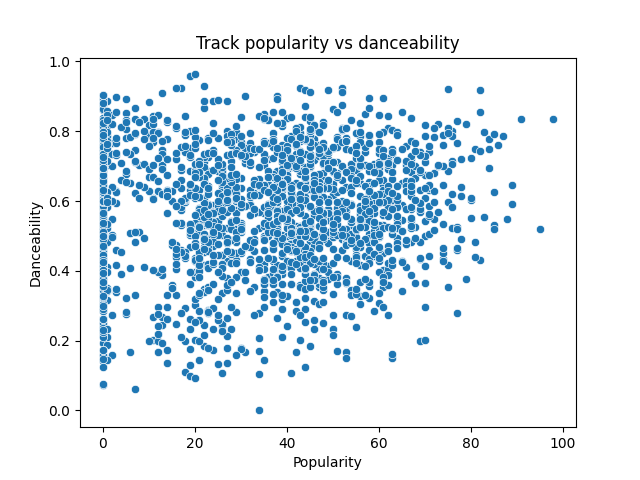
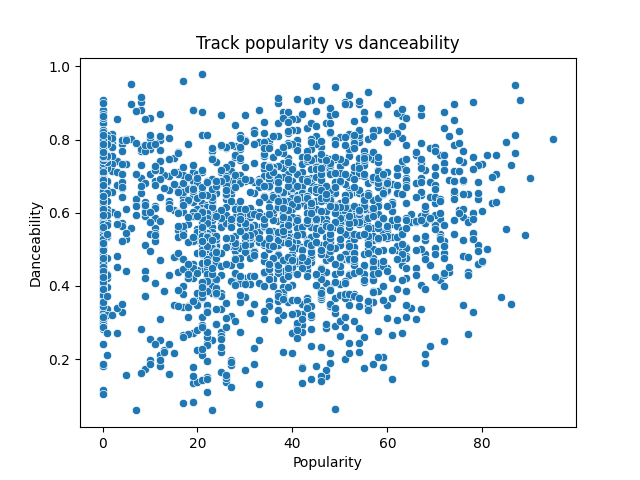
Finish first version of project

diff --git a/analysis.py b/analysis.py
@@ -93,6 +93,7 @@ plt.show()
 
 # # Scatter -> popularity vs energy
 sns.scatterplot(x='popularity',y='energy',data=sample_df)
+plt.title('Track popularity vs energy')
 plt.savefig('output/scatter_popularity_vs_energy.png')
 plt.show()
 

diff --git a/README.md b/README.md
@@ -1,2 +1,50 @@
-# spotify-analysis
+# Spotify Music Trends Analysis
 Spotify Music Trends analysis. Taking a look at: song popularity, duration, danceability, energy and valence.
+
+## Features
+- Data analysis and exctraction
+- Data visualization
+- Report on the analysis performed
+
+## Tech stack
+- Python
+- Pandas
+
+## Dataset used
+- Spotify Tracks Dataset
+
+Great dataset with alot of data and most importantly, it is clean!
+Link: https://www.kaggle.com/datasets/maharshipandya/-spotify-tracks-dataset
+
+## Graphs
+
+-History of popularity:
+![alt text](output/histogram_of_popularity.png)
+
+Track popularity vs danceability:
+![alt text](output/scatter_popularity_vs_danceability.png)
+
+Track popularity vs energy:
+![alt text](output/scatter_popularity_vs_energy.png)
+
+Top genres:
+![alt text](output/top_genres.png)
+
+All of the graphs here are included in the project files (output folder).
+
+## Report
+The feature that has the highest positive correlation with popularity is: Loudness (0.05) -> still pretty low
+
+The Histogram of popularity shows us that as expected, high popularity songs tend to be rare.
+The rate of highly popular songs is slightly over 6%.
+
+We can also see that popular songs tend to be more danceable.
+
+Most songs from the dataset are in the upper level of energy, but we can not see a clear correlation with popularity.The most popular songs are in all areas of energy.
+
+Full report can be found in the project files (report.txt).
+
+## Mission
+Upgrading knowledge in Python, more precisely in:
+- Pandas
+- Matplotlib and Seaborn